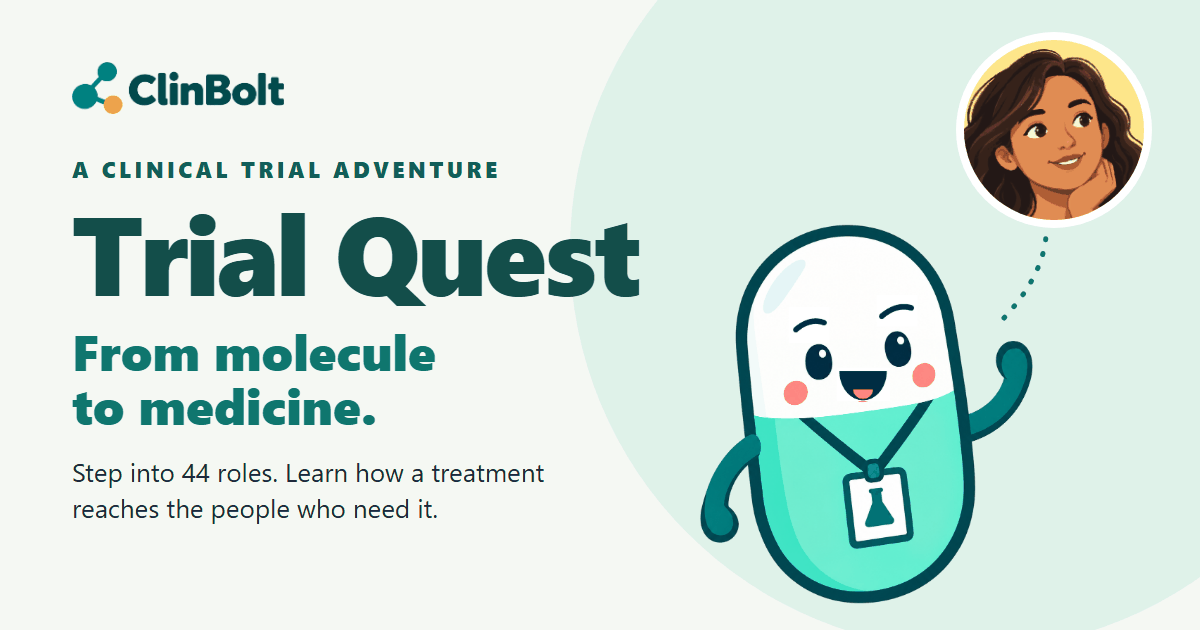
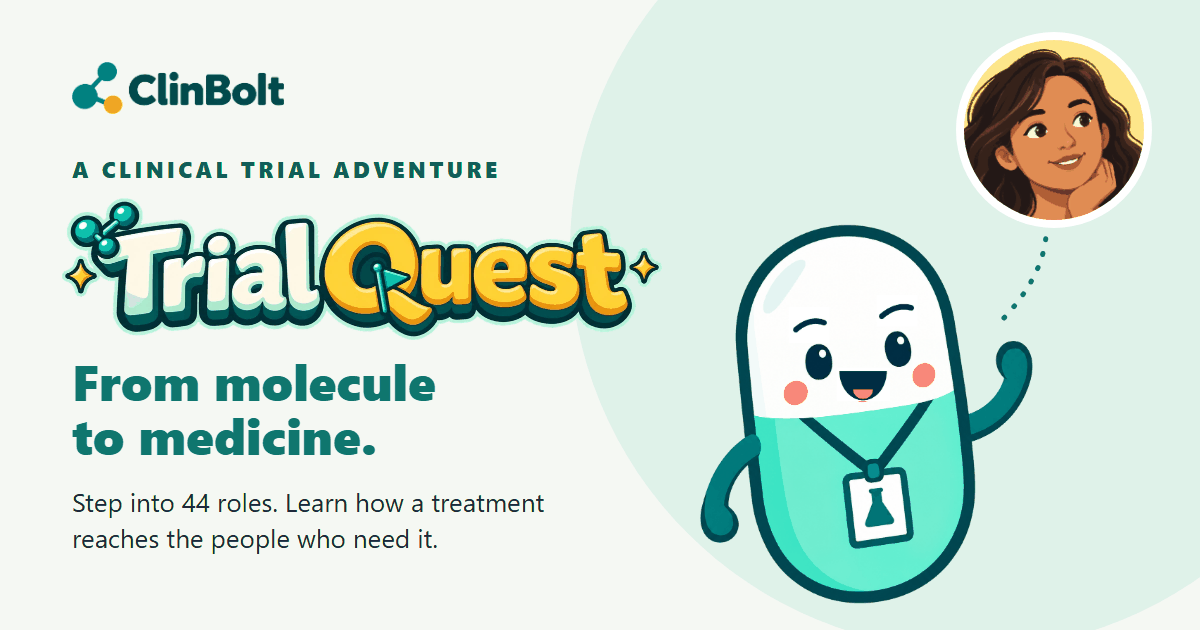
feat: the Trial Quest wordmark in the sidebar and the link preview
The desktop sidebar shows the wordmark (180px) under the ClinBolt mark in
place of the plain 'Trial Quest' text; the link keeps its 'Trial Quest home'
name. In dark mode the ClinBolt mark sits on a white chip, as on the home page.
The link-preview image (public/og-image.png, 1200 x 630, 100 KB) uses the
wordmark in place of the text heading. The desktop spec checks both logo sizes.

Changed region(s): [[0.0308, 0.3016, 0.555, 0.8746], [0.0617, 0.1508, 0.1233, 0.181], [0.8942, 0.0905, 0.925, 0.1206]]

diff --git a/src/components/Layout.tsx b/src/components/Layout.tsx
@@ -2,6 +2,7 @@ import type { ReactNode } from 'react';
 import { href, type Route } from '@/app/router';
 import { BookIcon, GearIcon, ListIcon, MapIcon, ShareIcon } from './Icons';
 import logoUrl from '@/assets/clinbolt-logo.png';
+import wordmarkUrl from '@/assets/trial-quest-wordmark.webp';
 
 export const DISCLAIMER =
   'Educational simulation. Veridian Syndrome and VX-101 are fictional. The process is simplified. Not medical or regulatory advice.';
@@ -57,17 +58,18 @@ export function SideNav({ current }: { current: Route['name'] }) {
       className="sticky top-0 hidden h-dvh w-[232px] shrink-0 flex-col gap-6 border-r border-border bg-surface px-4 py-6 lg:flex"
       data-testid="side-nav"
     >
-      <a href={href({ name: 'title' })} className="flex flex-col gap-1.5 px-2" aria-label="Trial Quest home">
-        <img
-          src={logoUrl}
-          alt="ClinBolt"
-          width="122"
-          height="30"
-          className="block h-[30px] w-auto self-start"
-        />
-        <span className="text-lg font-black tracking-tight text-brand-800 dark:text-brand-100">
-          Trial Quest
+      <a href={href({ name: 'title' })} className="flex flex-col gap-2 px-2" aria-label="Trial Quest home">
+        {/* Dark theme: the ClinBolt mark sits on a white chip, as on the home page. */}
+        <span className="inline-flex self-start rounded-lg dark:bg-white dark:px-1.5 dark:py-0.5">
+          <img src={logoUrl} alt="" width="122" height="30" className="block h-[30px] w-auto" />
         </span>
+        <img
+          src={wordmarkUrl}
+          alt=""
+          width="1200"
+          height="283"
+          className="-ml-1 block h-auto w-[180px] self-start"
+        />
       </a>
       <ul className="flex flex-col gap-1">
         {tabs.map(({ route, label, Icon, testId }) => {

diff --git a/e2e/desktop.spec.ts b/e2e/desktop.spec.ts
@@ -33,8 +33,12 @@ test('the frame matches the viewport: rail and panels on desktop, tabs on a phon
   if (desktop) {
     await expect(page.getByTestId('side-nav')).toBeVisible();
     // The rail is a flex column: the logo must keep its own width, not stretch to the rail's.
-    const logo = await page.getByTestId('side-nav').getByRole('img', { name: 'ClinBolt' }).boundingBox();
+    const rail = page.getByTestId('side-nav');
+    const logo = await rail.locator('img[src*="clinbolt-logo"]').boundingBox();
     expect(Math.round(logo!.width)).toBe(122);
+    const wordmark = await rail.locator('img[src*="trial-quest-wordmark"]').boundingBox();
+    expect(Math.round(wordmark!.width)).toBe(180);
+    await expect(rail.getByRole('link', { name: 'Trial Quest home' })).toBeVisible();
     await expect(page.getByTestId('bottom-nav')).toBeHidden();
     await expect(page.getByTestId('map-aside')).toBeVisible();
     await expect(page.getByTestId('map-next-up')).toContainText('CMC Scientist');
